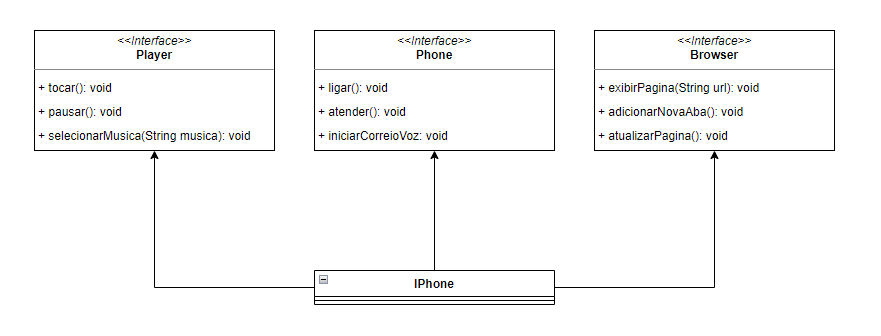
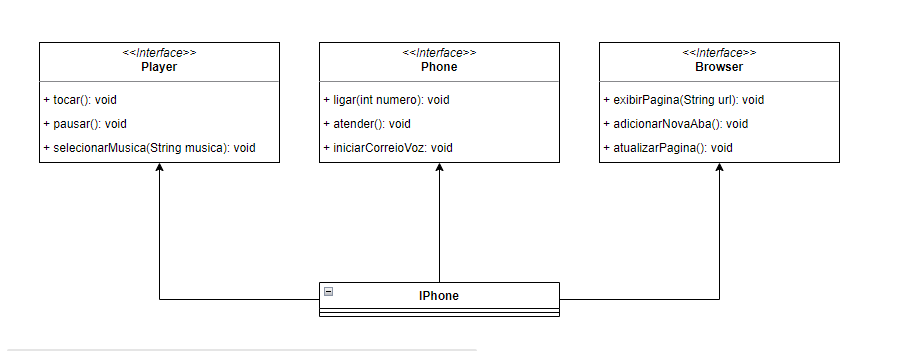
commit resolucao do desafio

diff --git a/diagramacao-de-classes-do-iphone/iphone/src/factory/Fabrica.java b/diagramacao-de-classes-do-iphone/iphone/src/factory/Fabrica.java
@@ -1,0 +1,29 @@
+package factory;
+
+import iphone.Iphone;
+
+public class Fabrica {
+	public static void main(String[] args) {
+		Iphone iphone = new Iphone();
+		
+		System.out.println("Iniciando a parte do Browser");
+		//Browser
+		iphone.exibirPagina("https://www.google.com/");
+		iphone.adicionarNovaAba();
+		iphone.atualizarPagina();
+		
+		System.out.println("");
+		System.out.println("Iniciando a parte do Phone");
+		//Phone
+		iphone.ligar(17111111111L);
+		iphone.atender();
+		iphone.iniciarCorreioVoz();
+		
+		System.out.println("");
+		System.out.println("Iniciando a parte do Player");
+		//Player
+		iphone.tocar();
+		iphone.pausar();
+		iphone.selecionarMusica("AC/DC - Thunderstruck");
+	}
+}

diff --git a/diagramacao-de-classes-do-iphone/iphone/src/browser/Browser.java b/diagramacao-de-classes-do-iphone/iphone/src/browser/Browser.java
@@ -1,0 +1,7 @@
+package browser;
+
+public interface Browser {
+	public void exibirPagina(String url);
+	public void adicionarNovaAba();
+	public void atualizarPagina();
+}

diff --git a/diagramacao-de-classes-do-iphone/iphone/src/player/Player.java b/diagramacao-de-classes-do-iphone/iphone/src/player/Player.java
@@ -1,0 +1,7 @@
+package player;
+
+public interface Player {
+	public void tocar();
+	public void pausar();
+	public void selecionarMusica(String musica);
+}

diff --git a/diagramacao-de-classes-do-iphone/iphone/src/phone/Phone.java b/diagramacao-de-classes-do-iphone/iphone/src/phone/Phone.java
@@ -1,0 +1,7 @@
+package phone;
+
+public interface Phone {
+	public void ligar(Long numero);
+	public void atender();
+	public void iniciarCorreioVoz();
+}

diff --git a/diagramacao-de-classes-do-iphone/iphone/src/module-info.java b/diagramacao-de-classes-do-iphone/iphone/src/module-info.java
@@ -1,0 +1,2 @@
+module iphone {
+}
